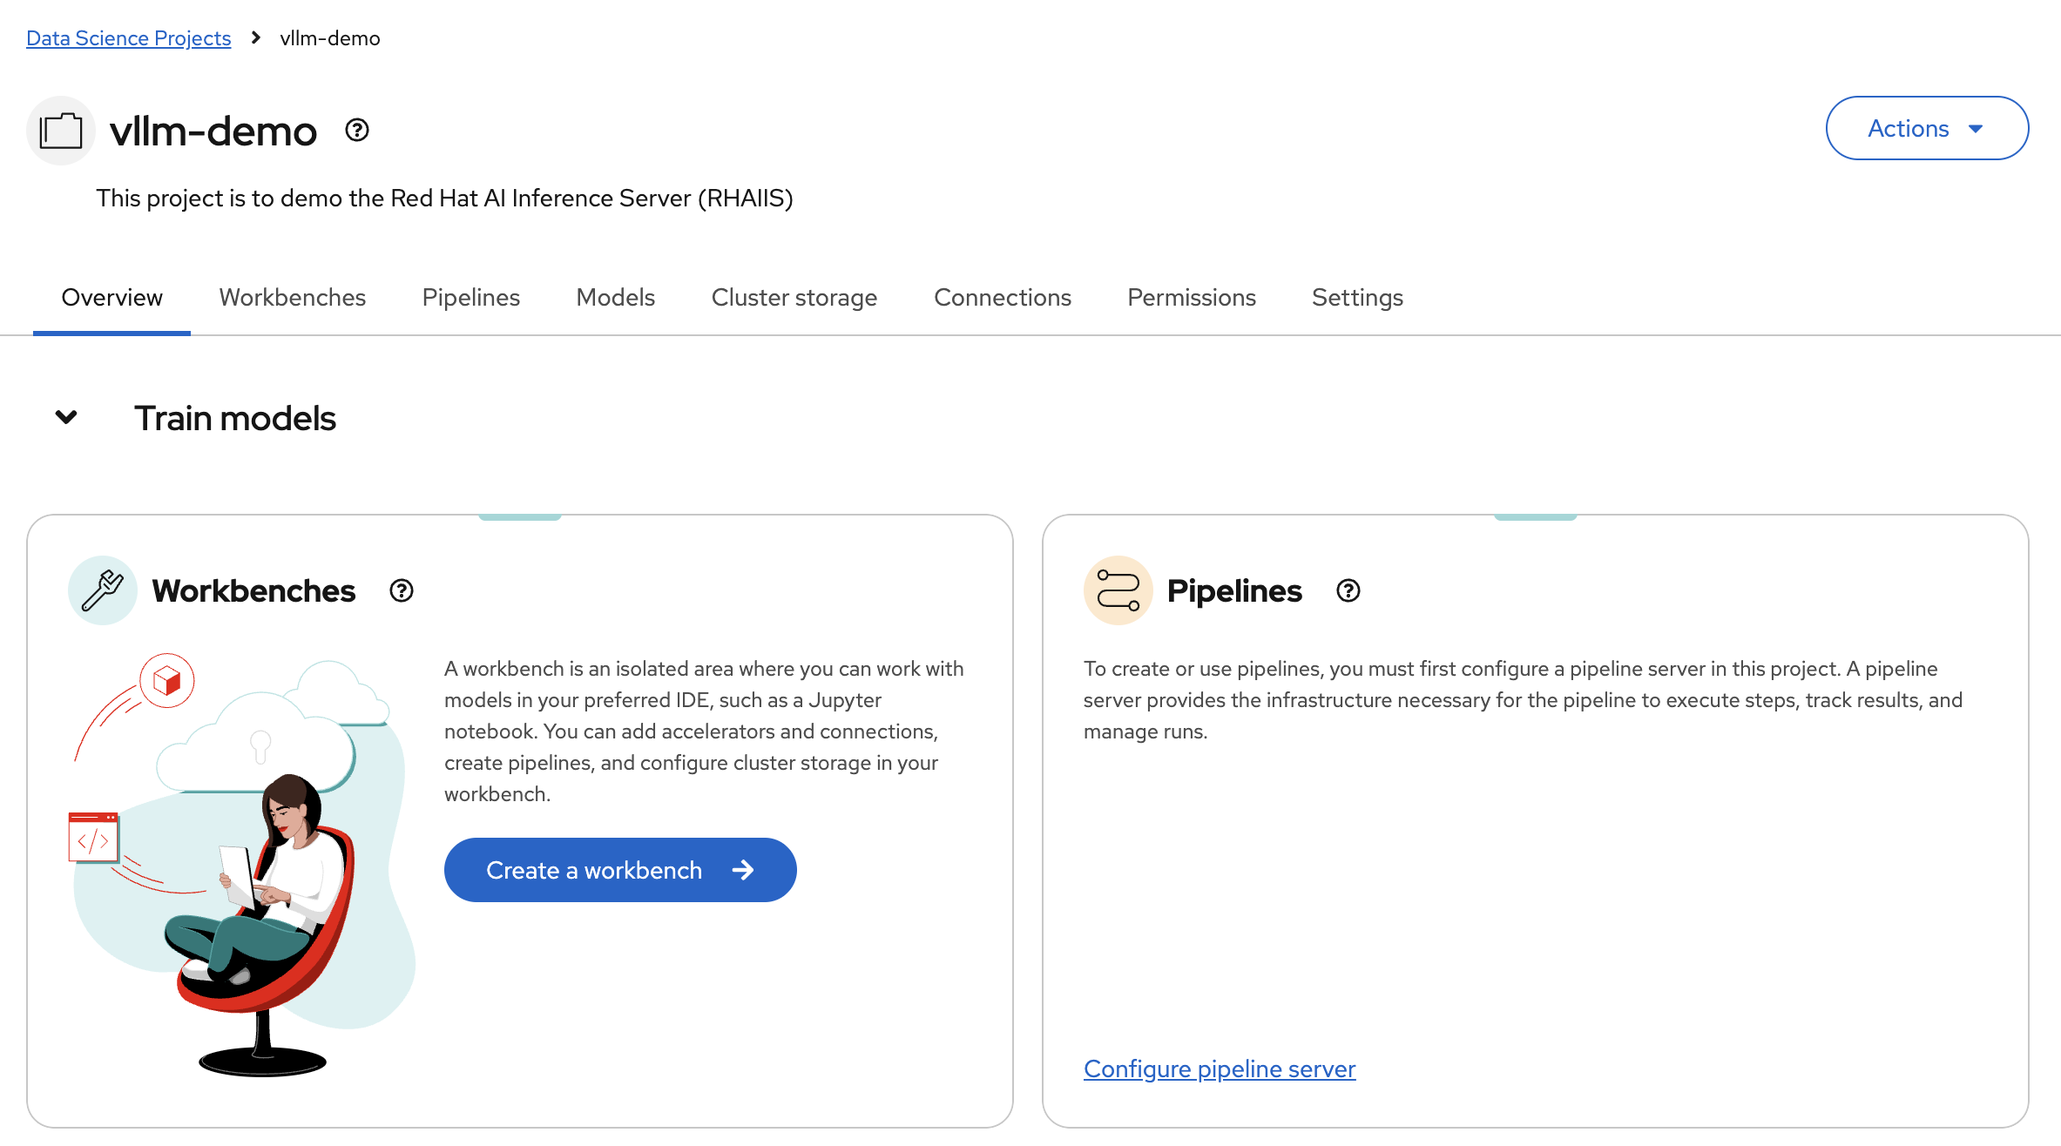
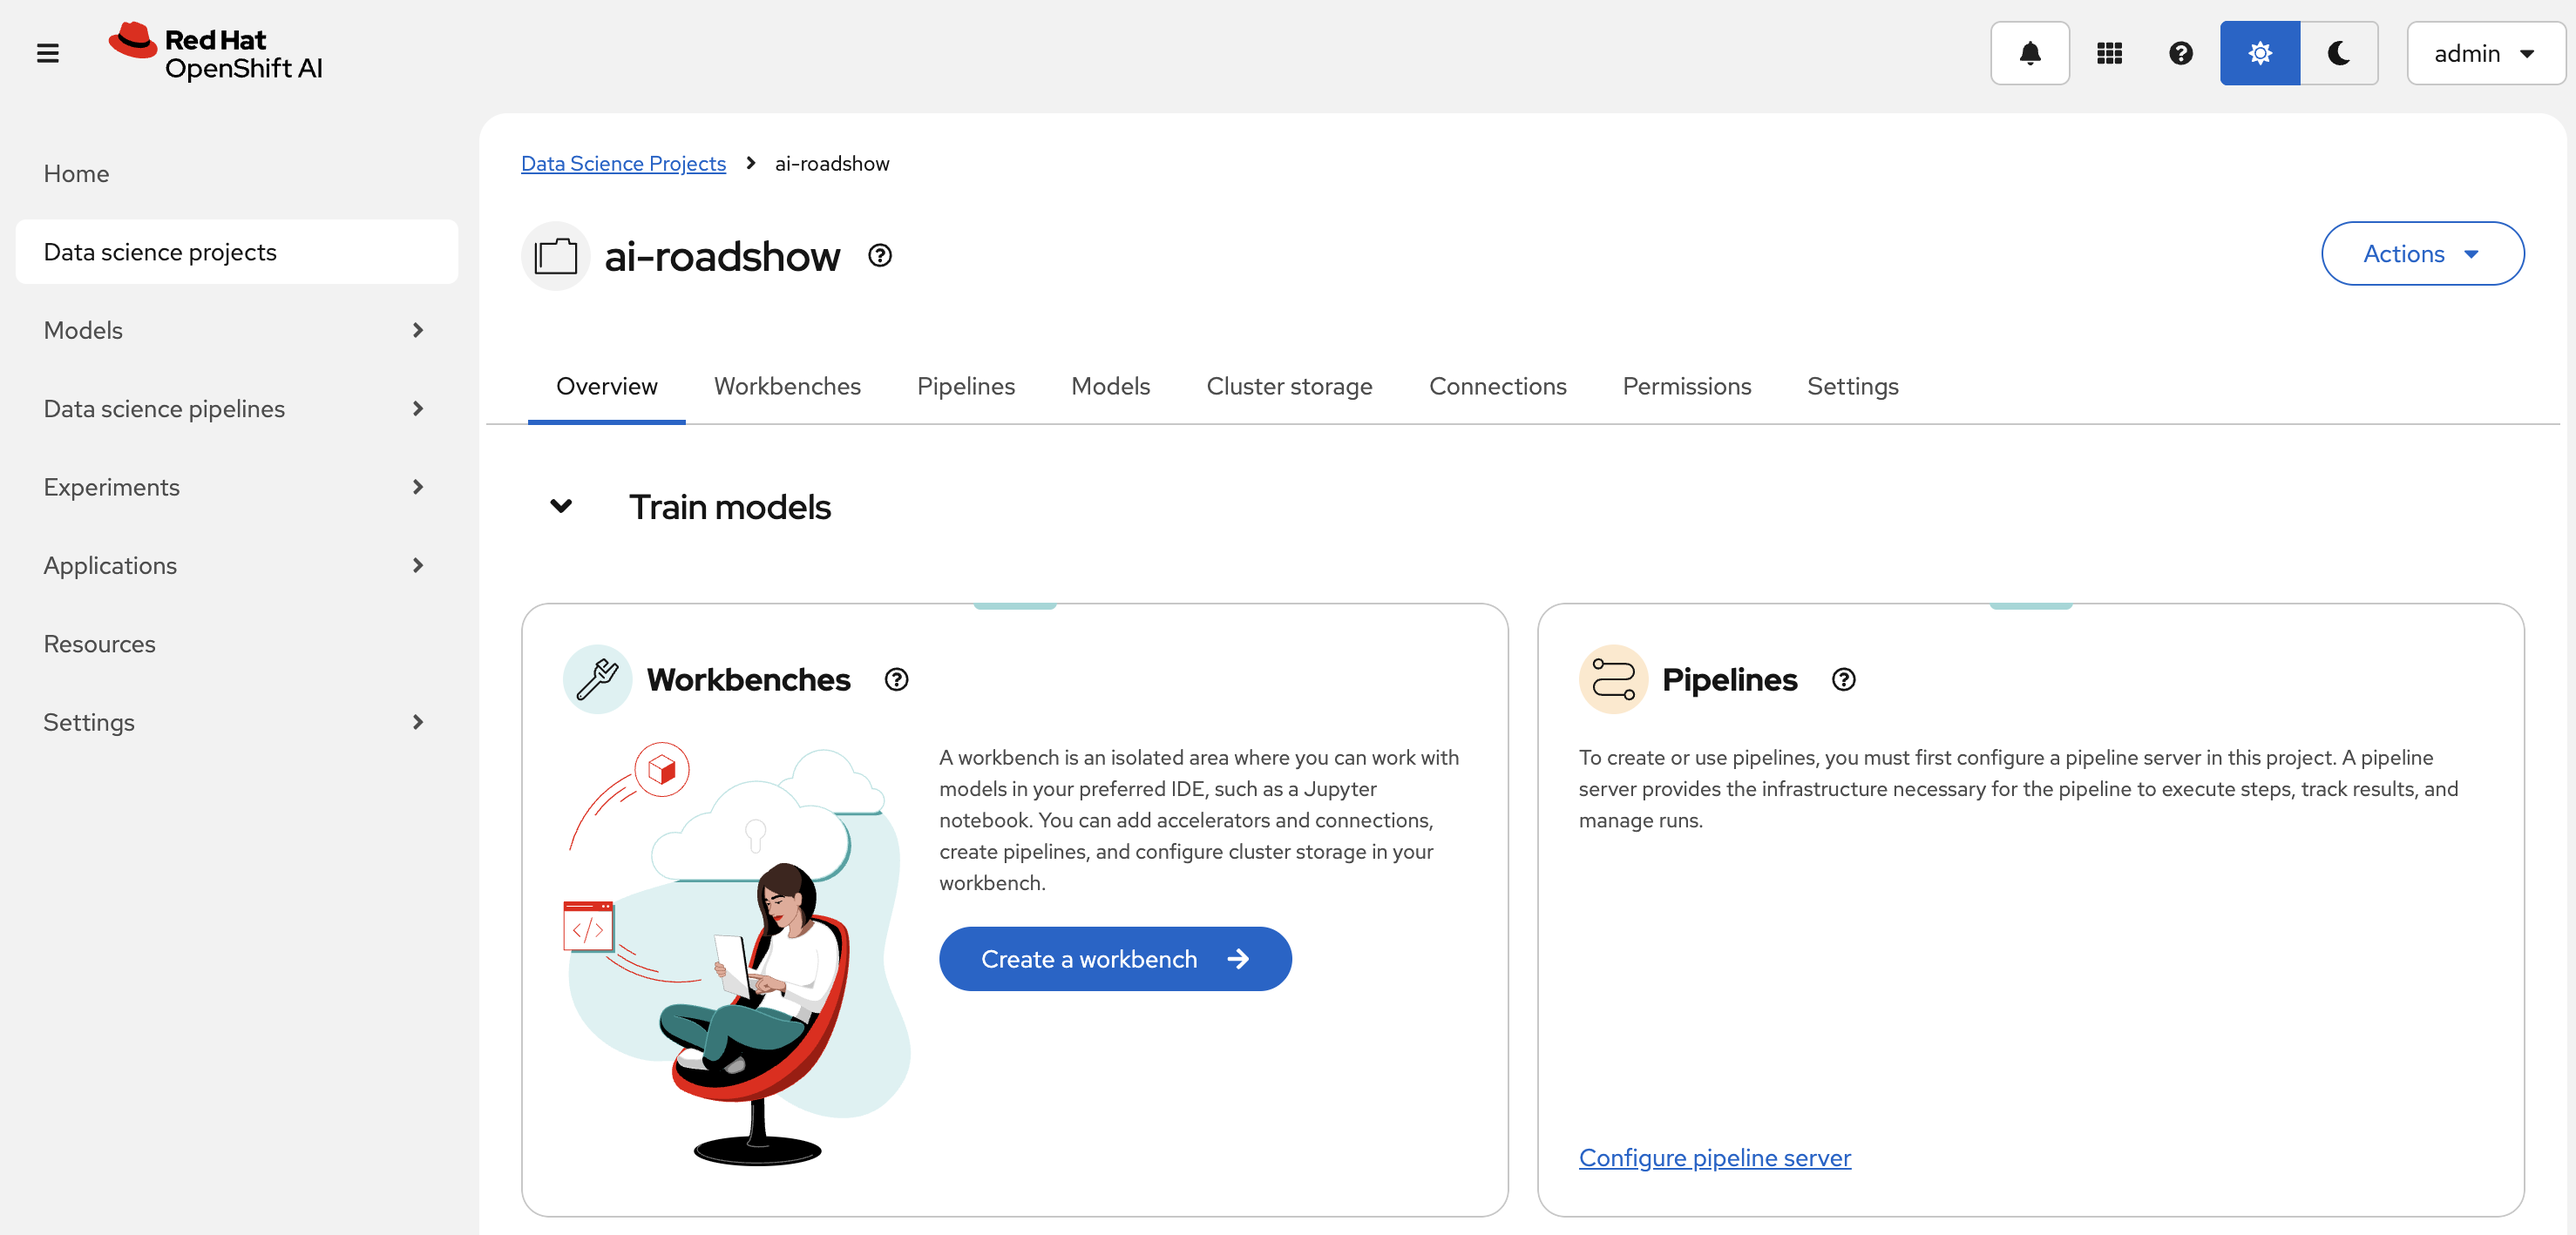
Updating the entry step

diff --git a/docs/4-rhaiis/1-getting-started.md b/docs/4-rhaiis/1-getting-started.md
@@ -2,44 +2,36 @@
 
 In this exercise we will configure the workbench that you will use for the lab. Follow the steps described in this document to configure the lab environment.
 
-## Access the environment
+# Login to OpenShift AI
 
-Log into OpenShift AI using the credentials you have been provided.
+Your instructor will supply you with a link that you will use to login to your OpenShift AI cluster.
 
-## Create a project
+1. Open the OpenShift AI console using the url provided by your instructor.  
+2. Use the following credentials to login to OpenShift AI:  
+      **Username:** *admin*  
+      **Password:** *password*
 
-1. Click **Data science projects** in the navigation pane.  
-   OpenShift AI lists all of the existing projects.  
+# Create a workbench
 
-2. Click **Create project**.  
-
-3. enter the follwing into the **Create project** form:  
-   **Name:** `vllm-demo`  
-   **Description:** `This project is to demo the Red Hat AI Inference Server (RHAIIS).`
-
-    ![images/create-project.png](images/create-project.png)
-
-4. Click **Create**.  
-   OpenShift AI creates the new project and displays the project details.
-
+3. Select the `ai-roadshow` data science project.
     ![images/create-workbench.png](images/create-workbench.png)
-
-5. Click **Create a workbench** in the **Workbenches** group box.  
+   
+4. Click **Create a workbench** in the **Workbenches** group box.  
    OpenShift AI displays a form to enter the workbench details.
 
-6. Enter the following details into the **Create workbench** form:   
+5. Enter the following details into the **Create workbench** form:   
    Name: **vllm**  
    Image Selection: **CUDA**  
    Version: **2025.1 (Recommended)**  
    Hardware profile: **NVIDIA L4 (Shared)**  
 
-    ![images/create-workbench.png](images/create-workbench-2.png)
+    ![images/create-workbench-2.png](images/create-workbench-2.png)
 
-7. Add the **environment variables** as illustrated below.  Please reflect to your own environment been created for your lab.
+6. Add the **environment variables** as illustrated below.  Please reflect to your own environment been created for your lab.
 
     ![images/environment-variables.png](images/environment-variables.png)
 
-8. Click **Create workbench**  
+7. Click **Create workbench**  
    OpenShift AI proceeds to create the `vllm` **Workbench**.  
    Monitor the **Status** of the workbench until it changes to `Running`.
 
